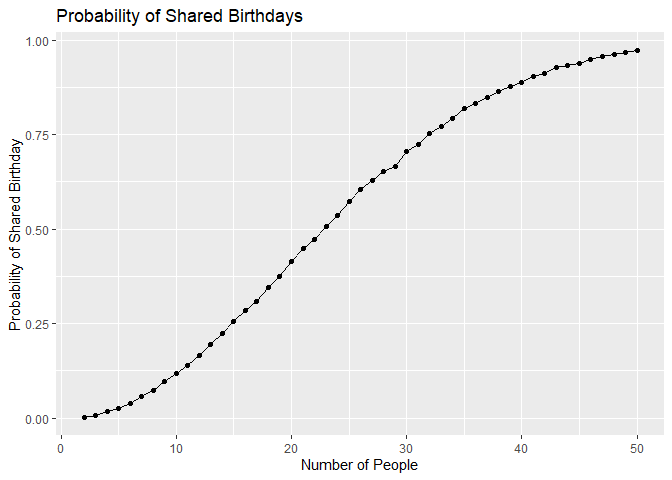
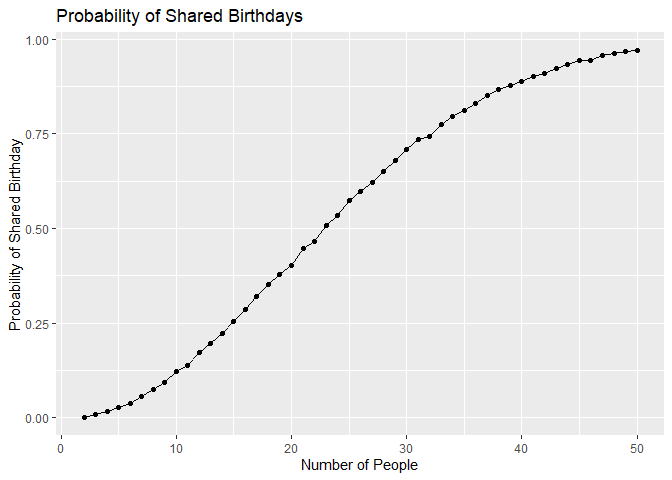
Finish Problem 2

diff --git a/p8105-hw5-wy2486.md b/p8105-hw5-wy2486.md
@@ -44,7 +44,7 @@ birthday_repeated(5)
 birthday_repeated(23)
 ```
 
-    ## [1] TRUE
+    ## [1] FALSE
 
 ``` r
 birthday_repeated(50)
@@ -77,22 +77,22 @@ birthday_summary
     ## # A tibble: 49 × 2
     ##    n_people prob_repeat
     ##       <int>       <dbl>
-    ##  1        2      0.0023
-    ##  2        3      0.0067
-    ##  3        4      0.017 
-    ##  4        5      0.0262
-    ##  5        6      0.0397
-    ##  6        7      0.0563
-    ##  7        8      0.0741
-    ##  8        9      0.0957
-    ##  9       10      0.118 
-    ## 10       11      0.138 
+    ##  1        2      0.0018
+    ##  2        3      0.0098
+    ##  3        4      0.0155
+    ##  4        5      0.0281
+    ##  5        6      0.0383
+    ##  6        7      0.057 
+    ##  7        8      0.0736
+    ##  8        9      0.0934
+    ##  9       10      0.122 
+    ## 10       11      0.137 
     ## # ℹ 39 more rows
 
 The simulation results show that the probability of at least two people
 sharing a birthday increases as the group size increases. For a group of
-2 people, the estimated probability is 0.23%, compared with 2.62% for 5
-people and 11.77% for 10 people.
+2 people, the estimated probability is 0.18%, compared with 2.81% for 5
+people and 12.25% for 10 people.
 
 ### Probability Plot
 
@@ -116,3 +116,105 @@ birthday_summary |>
 The plot shows a nonlinear increasing relationship, with the probability
 reaching approximately 50% at a group size of 23 people and approaching
 100% as the group size increases toward 50.
+
+## Problem 2: Longitudinal Study
+
+In this problem, I use iteration to import longitudinal data from
+multiple participants and organize the observations into a tidy
+dataframe.
+
+### Data Import and Tidying
+
+The code below reads the participant files and organizes the data by
+subject, study group, and week.
+
+``` r
+full_df =
+  tibble(
+    files = list.files("data/", pattern = "\\.csv$"),
+    path = str_c("data/", files)
+  ) |>
+  mutate(
+    data = map(path, read_csv)
+  ) |>
+  unnest(data)
+
+tidy_df =
+  full_df |>
+  mutate(
+    files = str_replace(files, "\\.csv$", ""),
+    group = str_sub(files, 1, 3)
+  ) |>
+  pivot_longer(
+    week_1:week_8,
+    names_to = "week",
+    values_to = "outcome",
+    names_prefix = "week_"
+  ) |>
+  mutate(
+    week = as.numeric(week)
+  ) |>
+  select(
+    group,
+    subj = files,
+    week,
+    outcome
+  )
+
+head(tidy_df, 10)
+```
+
+    ## # A tibble: 10 × 4
+    ##    group subj    week outcome
+    ##    <chr> <chr>  <dbl>   <dbl>
+    ##  1 con   con_01     1    0.2 
+    ##  2 con   con_01     2   -1.31
+    ##  3 con   con_01     3    0.66
+    ##  4 con   con_01     4    1.96
+    ##  5 con   con_01     5    0.23
+    ##  6 con   con_01     6    1.09
+    ##  7 con   con_01     7    0.05
+    ##  8 con   con_01     8    1.94
+    ##  9 con   con_02     1    1.13
+    ## 10 con   con_02     2   -0.88
+
+### Spaghetti Plot
+
+The following plot shows how each participant’s outcome changes over the
+eight weeks, allowing us to compare the control and experimental groups.
+
+``` r
+tidy_df |>
+  ggplot(
+    aes(
+      x = week,
+      y = outcome,
+      group = subj,
+      color = group
+    )
+  ) +
+  geom_point() +
+  geom_path() +
+  facet_grid(
+    ~group,
+    labeller = as_labeller(
+      c(con = "Control", exp = "Experimental")
+    )
+  ) +
+  labs(
+    title = "Longitudinal Observations by Study Group",
+    x = "Week",
+    y = "Outcome",
+    color = "Study Group"
+  )
+```
+
+![](p8105-hw5-wy2486_files/figure-gfm/unnamed-chunk-4-1.png)<!-- -->
+
+The spaghetti plot shows that the control and experimental groups have
+different patterns over time. In the control group, outcomes remain
+relatively stable across the eight weeks, although there are some
+fluctuations between participants. In the experimental group, outcomes
+generally increase over time. There are also differences in outcomes
+among participants within each group. Overall, the experimental group
+shows a greater increase in outcomes compared to the control group.
